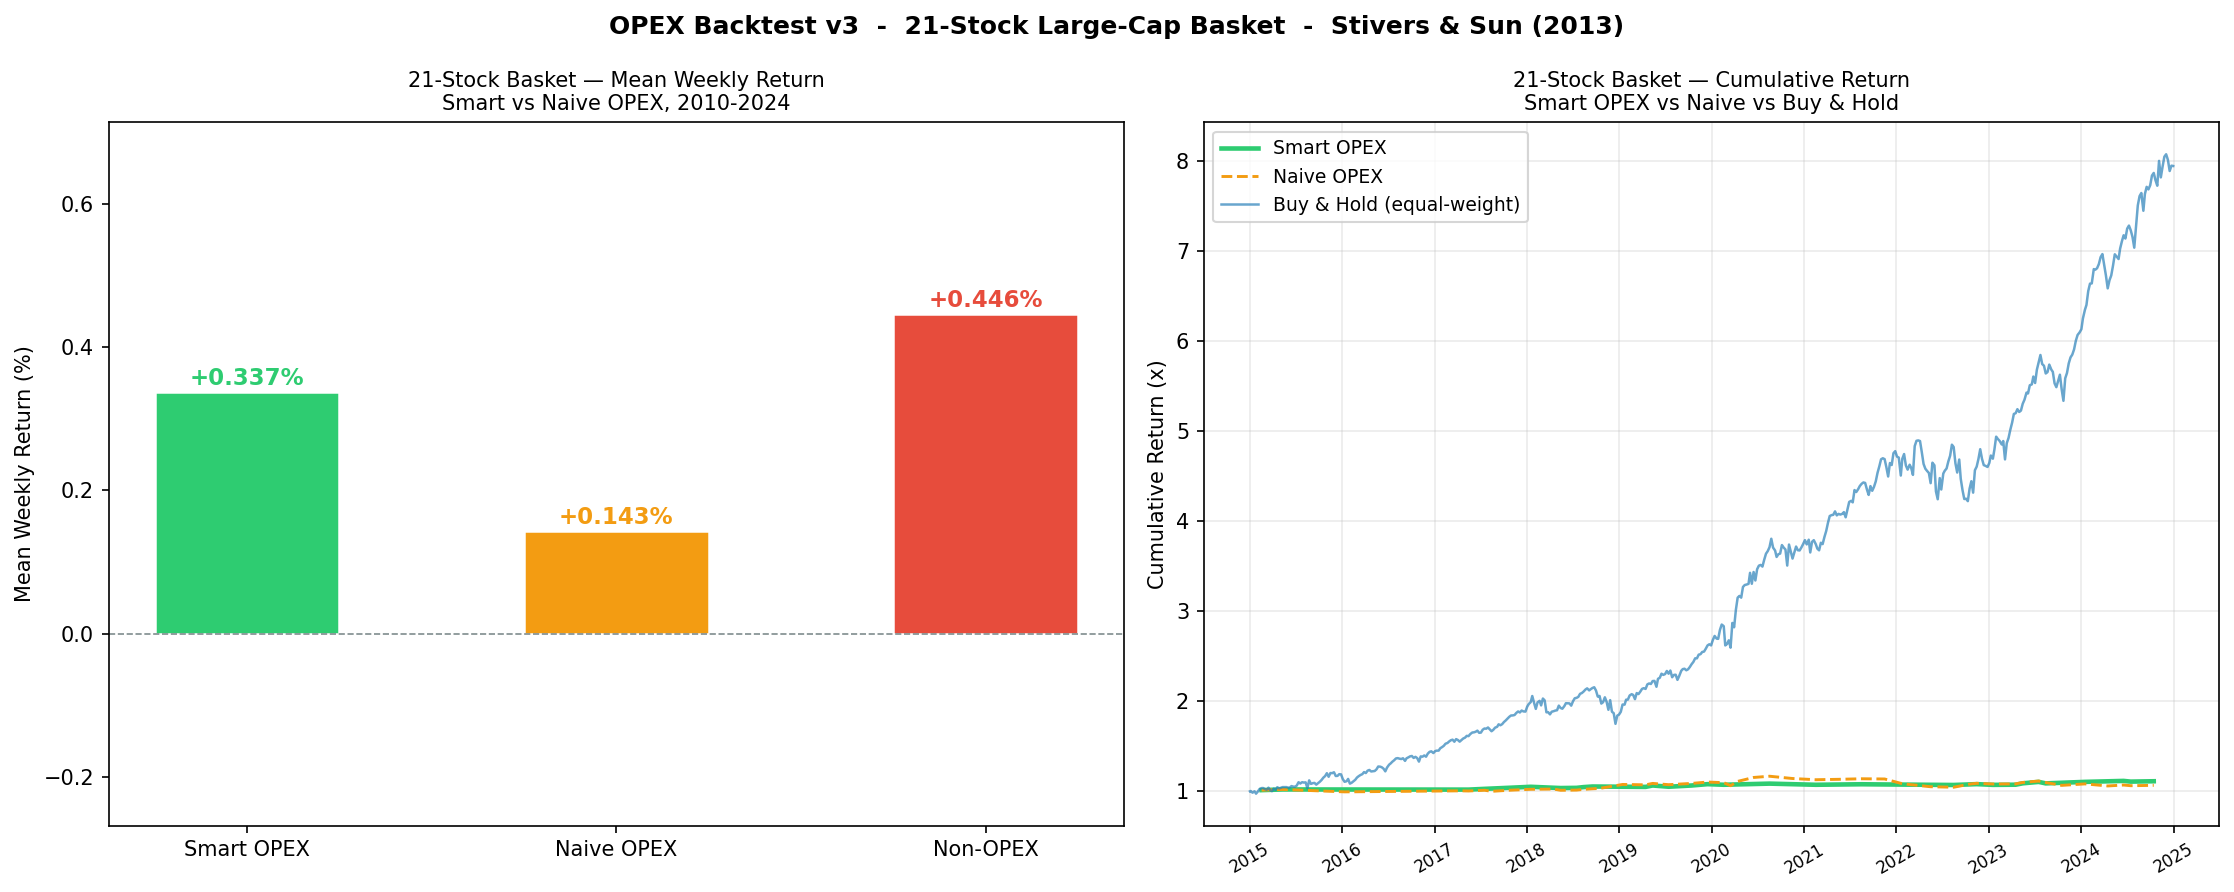
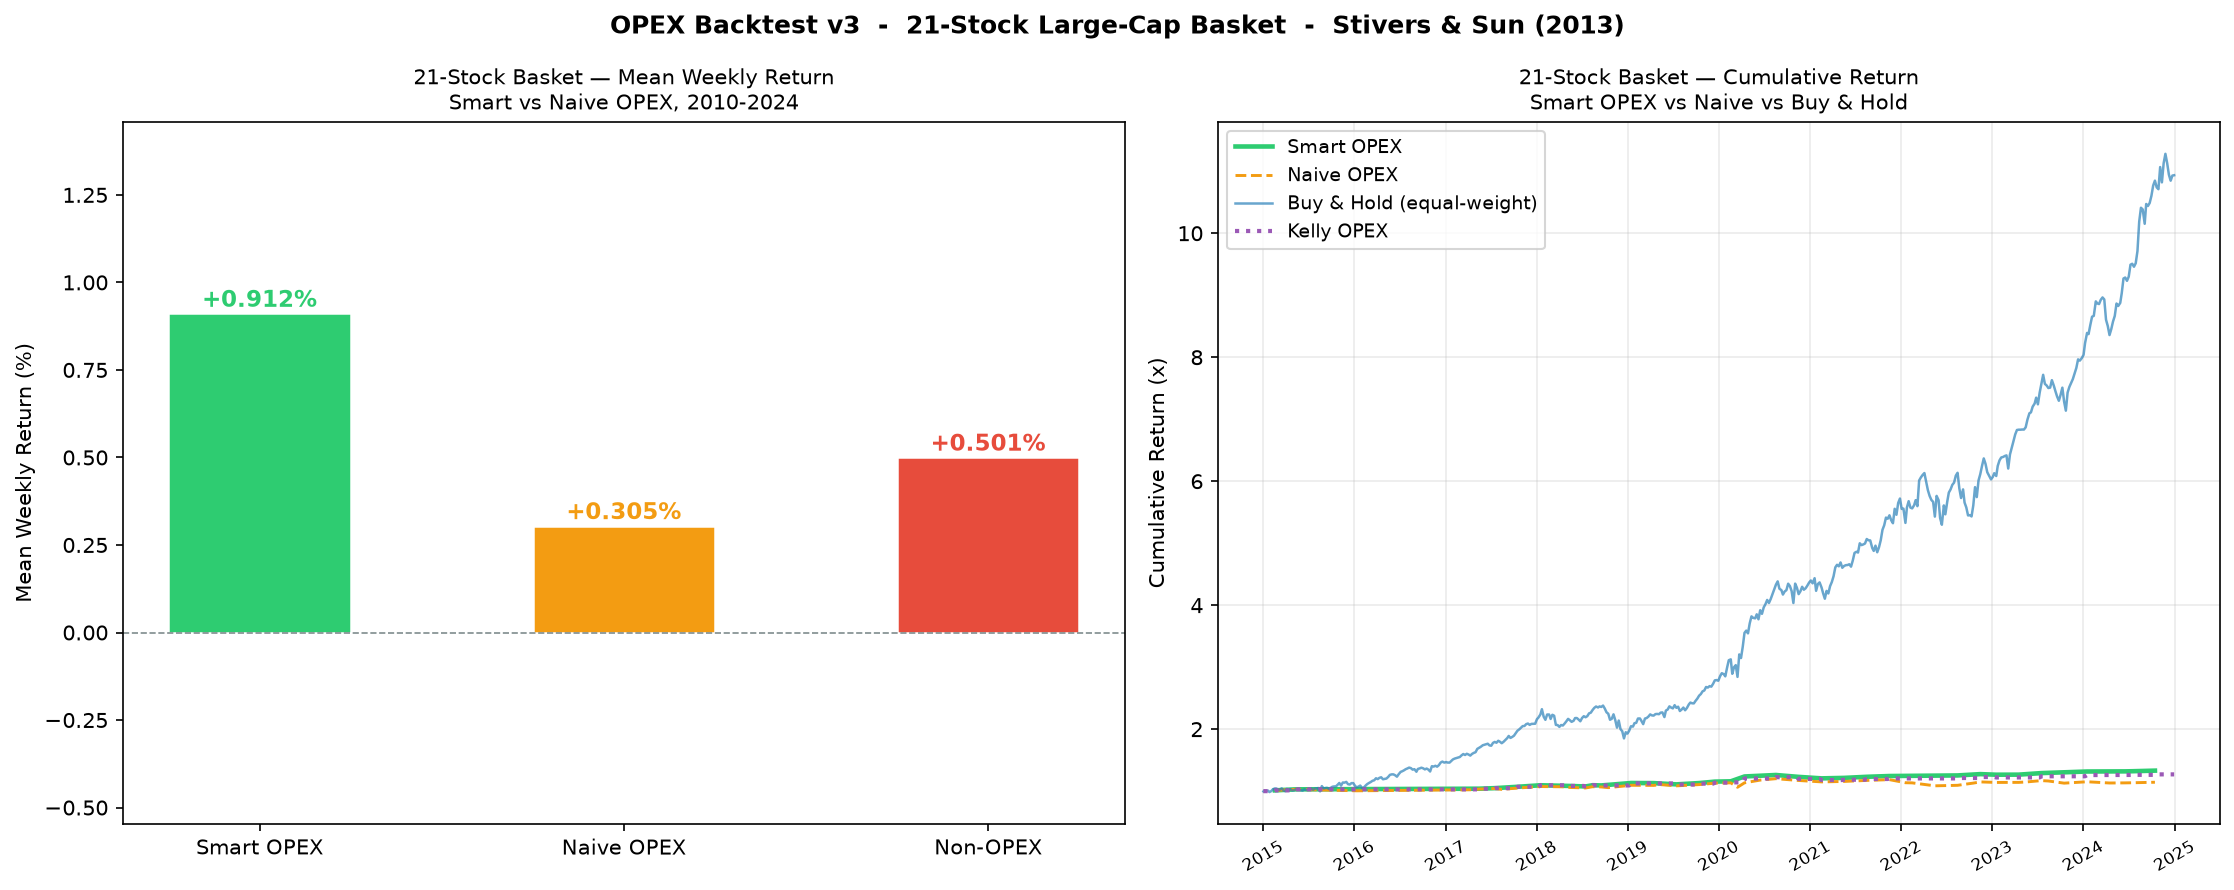
feat: update OPEX strategy to top-8 basket with optimised params
- Basket: NVDA, JNJ, UNH, WMT, HD, ABBV, AAPL, V (dropped underperformers)
- TREND_LOOKBACK=7, MOMENTUM_FLOOR=-0.029, VIX_THRESHOLD=38.48, KELLY=1.5
- Re-ran backtest (opex_results.json updated with new CAGR/Sharpe/Win Rate)
- Frontend (StratOS): backtest.json + TradingFramework updated to new numbers
- researcher/mutator.py: BASKET and BASE_PARAMS updated to match
- optimize/: basket selection + CAGR param search artifacts (OOS 47.8% CAGR)

diff --git a/backtest/opex_backtest.py b/backtest/opex_backtest.py
@@ -40,20 +40,17 @@ FINNHUB_API_KEY = os.environ.get("FINNHUB_API_KEY", "")
 START_DATE = "2015-01-01"
 END_DATE   = "2024-12-31"
 
-# Equal-weighted 21-stock basket (all listed pre-2015, continuous history)
+# Top-8 optimised basket
 BASKET = [
-    "AAPL", "MSFT", "GOOGL", "AMZN", "META",
-    "NVDA", "JPM",  "JNJ",   "UNH",
-    "HD",   "WMT",  "PG",    "BAC",  "MA",
-    "V",    "ABBV", "MRK",   "PFE",
-    "XLK",  "XLV",  "XLF",
+    "NVDA", "JNJ", "UNH", "WMT",
+    "HD",   "ABBV", "AAPL", "V",
 ]
 SPY = "SPY"   # regime signal + benchmark
 
-TREND_LOOKBACK   = 10     # weeks for SPY MA
-MOMENTUM_FLOOR   = -0.01  # prior basket week must be > -1%
-VIX_THRESHOLD    = 30     # skip OPEX weeks when VIX > 30
-KELLY_FRACTION   = 0.25   # quarter-Kelly for safety
+TREND_LOOKBACK   = 7       # weeks for SPY MA (optimised)
+MOMENTUM_FLOOR   = -0.029  # prior basket week must be > -2.9% (optimised)
+VIX_THRESHOLD    = 38.48   # skip OPEX weeks when VIX > 38.48 (optimised)
+KELLY_FRACTION   = 1.5     # leveraged Kelly (best OOS CAGR)
 
 FINNHUB_BASE  = "https://finnhub.io/api/v1"
 GATE_KEYWORDS = {"fomc", "federal open market", "cpi", "consumer price", "nonfarm", "nfp"}

diff --git a/researcher/mutator.py b/researcher/mutator.py
@@ -30,7 +30,7 @@ from researcher.hydra_client import insert_many
 # config directly to avoid side-effects; values must match config defaults)
 # ---------------------------------------------------------------------------
 BASE_PARAMS = {
-    "OPEX_RETURN_THRESHOLD":      0.0015,
+    "OPEX_RETURN_THRESHOLD":       0.029,
     "INTRADAY_MOMENTUM_THRESHOLD": 0.0015,
     "CONVICTION_THRESHOLD":        0.35,
 }
@@ -38,7 +38,7 @@ BASE_PARAMS = {
 MUTATION_FACTOR = 0.20   # ±20%
 N_MUTATIONS     = 10
 LOOKBACK_MONTHS = 6
-BASKET          = ["AAPL", "MSFT", "GOOGL", "NVDA", "JPM", "SPY"]
+BASKET          = ["NVDA", "JNJ", "UNH", "WMT", "HD", "ABBV", "AAPL", "V"]
 ALERT_DELTA     = 0.10   # alert if Sharpe improves by this much
 
 
